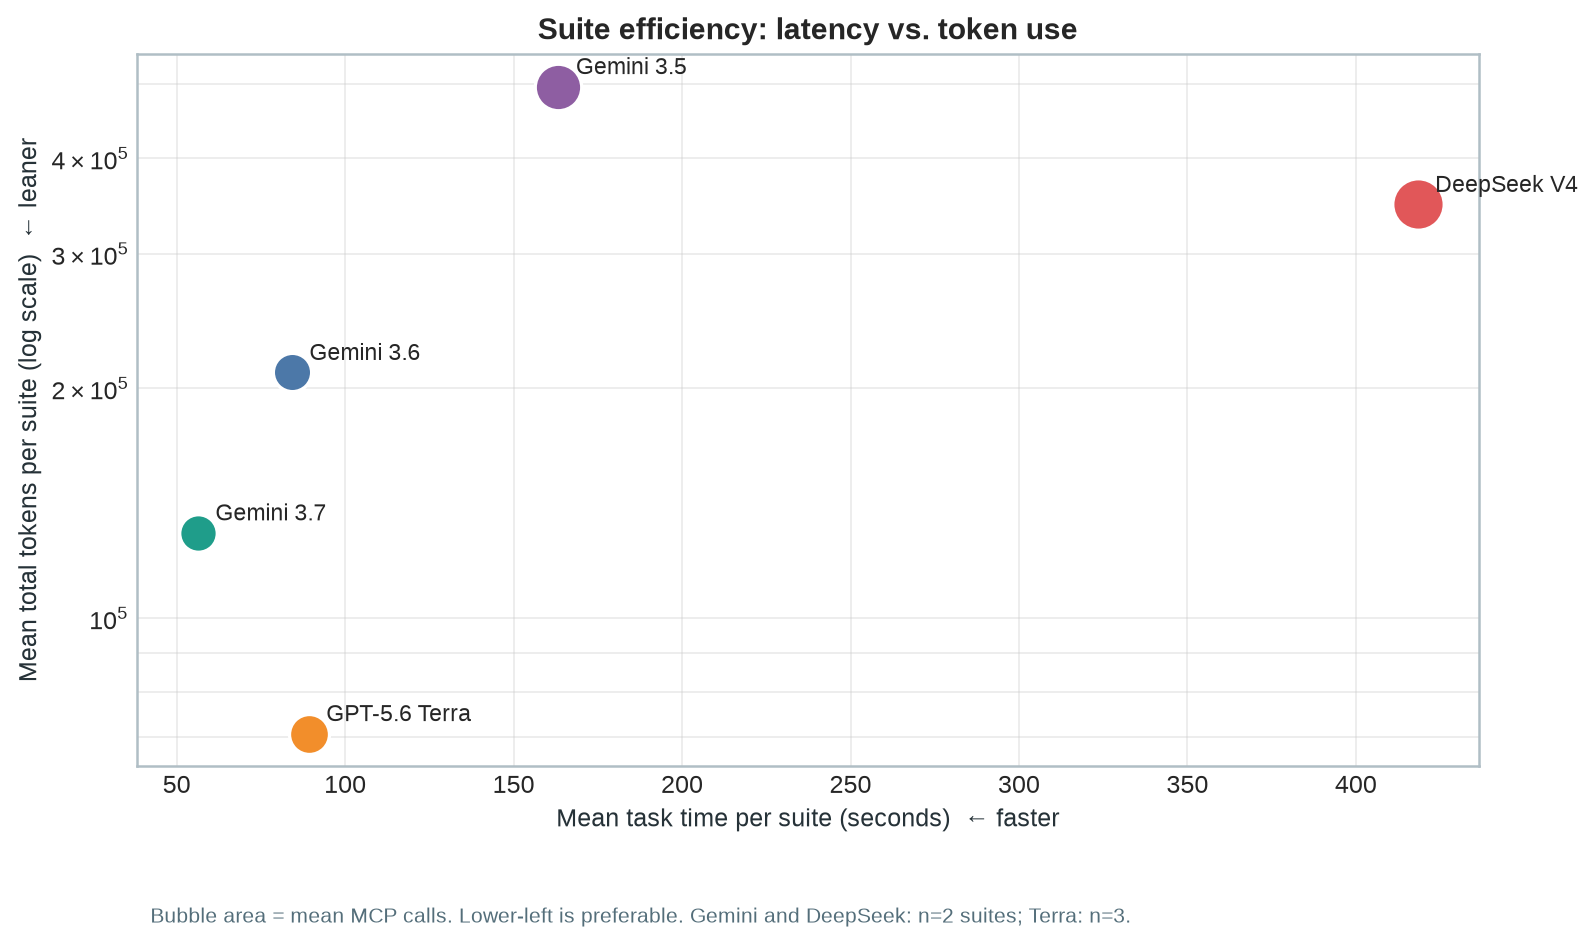
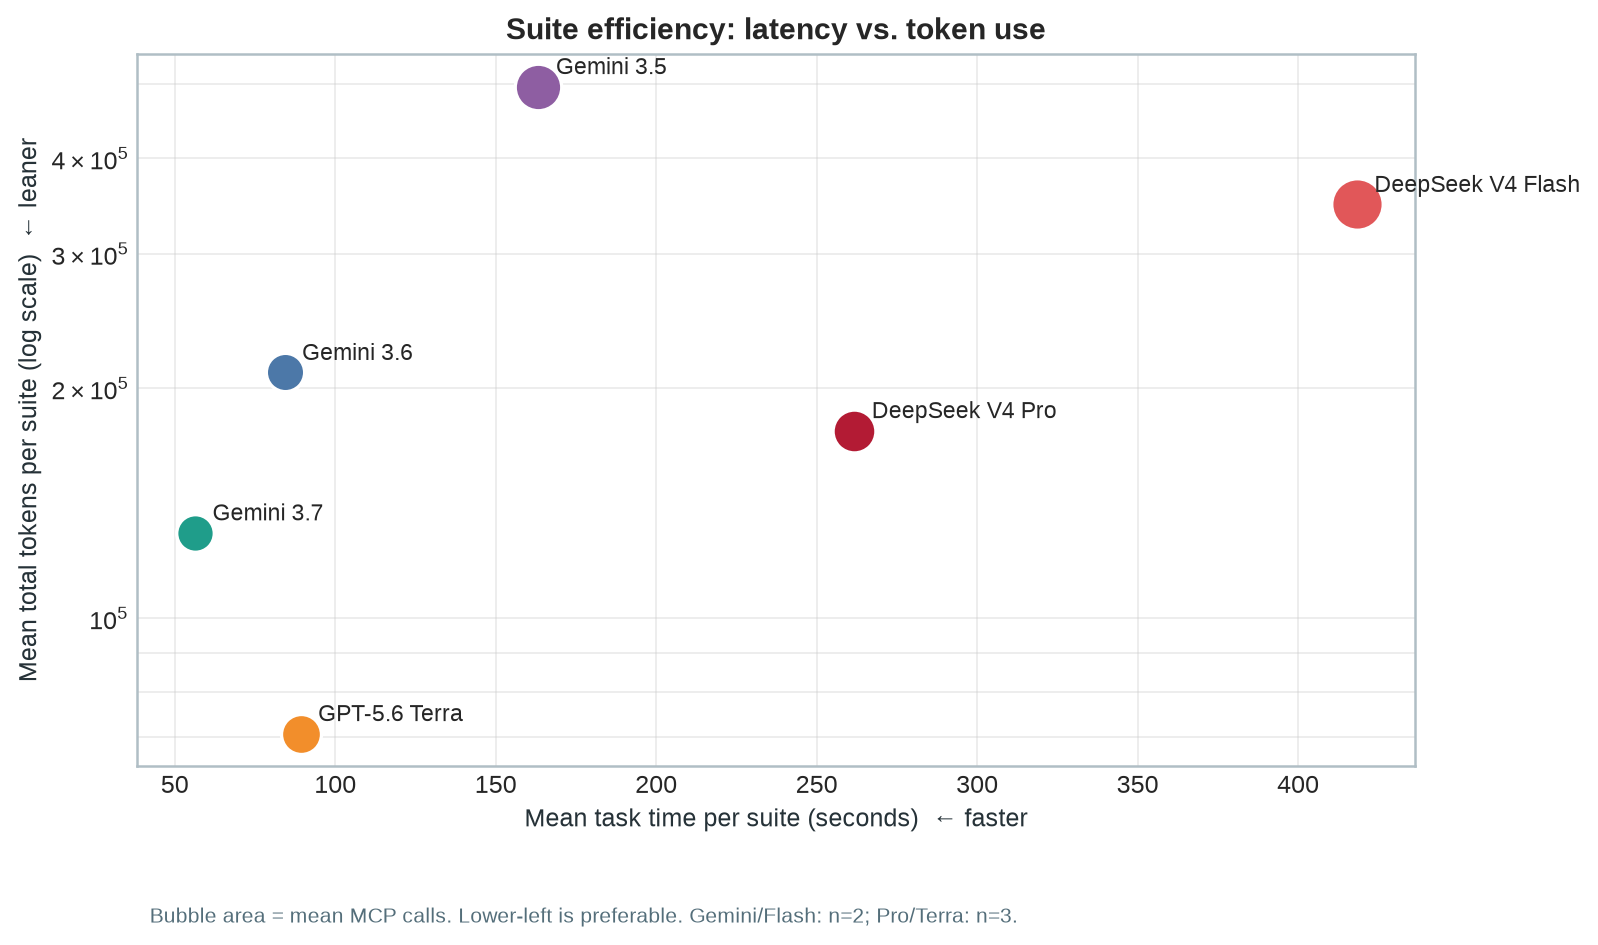
docs(results): update shootout with DeepSeek V4 Pro and reliability analysis

diff --git a/results/generate_gemini_shootout_charts.py b/results/generate_gemini_shootout_charts.py
@@ -1,8 +1,9 @@
 """Generate reproducible charts for gemini-shootout-081426.md.
 
 The values below are the suite and task means recorded in the accompanying
-report from the EU Logfire `mcp-eval` project. Gemini and DeepSeek are based on
-two suites per model; GPT-5.6 Terra is based on three.
+report from the EU Logfire `mcp-eval` project. Gemini and DeepSeek Flash are
+based on two suites per model; DeepSeek Pro and GPT-5.6 Terra are based on
+three.
 """
 
 from pathlib import Path
@@ -21,6 +22,7 @@ MODEL_SUMMARY = pd.DataFrame(
         ("Gemini 3.7 Flash", "Google Gemini", 2, 21.5, 30.0, 129_373, 56.3),
         ("GPT-5.6 Terra", "OpenAI", 3, 15.3, 35.0, 70_638, 89.2),
         ("DeepSeek V4 Flash", "DeepSeek / OpenRouter", 2, 29.5, 63.0, 348_166, 418.3),
+        ("DeepSeek V4 Pro", "DeepSeek / OpenRouter", 3, 20.3, 41.3, 176_077, 261.7),
     ],
     columns=["model", "family", "suites", "turns", "calls", "tokens", "seconds"],
 )
@@ -47,6 +49,10 @@ TASK_METRICS = pd.DataFrame(
         ("Ambiguous classification", "Gemini 3.7 Flash", 23.9, 81_048, 13.0),
         ("Ambiguous classification", "GPT-5.6 Terra", 44.0, 45_312, 19.3),
         ("Ambiguous classification", "DeepSeek V4 Flash", 184.9, 249_912, 33.0),
+        ("Structured discovery", "DeepSeek V4 Pro", 42.6, 16_501, 11.7),
+        ("Single-table query", "DeepSeek V4 Pro", 32.2, 12_875, 2.3),
+        ("Join-heavy workload", "DeepSeek V4 Pro", 39.0, 18_075, 5.0),
+        ("Ambiguous classification", "DeepSeek V4 Pro", 147.9, 128_627, 22.3),
     ],
     columns=["task", "model", "seconds", "tokens", "calls"],
 )
@@ -59,7 +65,31 @@ COLORS = {
     "Gemini 3.7 Flash": "#1f9d8a",
     "GPT-5.6 Terra": "#f28e2b",
     "DeepSeek V4 Flash": "#e15759",
+    "DeepSeek V4 Pro": "#b31b34",
 }
+SCATTER_LABELS = {
+    "Gemini 3.5 Flash": "Gemini 3.5",
+    "Gemini 3.6 Flash": "Gemini 3.6",
+    "Gemini 3.7 Flash": "Gemini 3.7",
+}
+STATUS_CRITICAL = "#d03b3b"  # reserved status color; aborted attempts, never a series
+
+# Process starts per model vs. suites that actually completed, per the
+# independent Logfire review (see "Independent validation" in the report).
+# Only DeepSeek needed restarts: a silent mid-task hang at 22:58:39 UTC and a
+# Logfire-export-retry stall at 23:40:35 UTC, both abandoned with zero
+# completed tasks, before the two counted runs went clean.
+RELIABILITY = pd.DataFrame(
+    [
+        ("Gemini 3.5 Flash", 2, 0),
+        ("Gemini 3.6 Flash", 2, 0),
+        ("Gemini 3.7 Flash", 2, 0),
+        ("GPT-5.6 Terra", 3, 0),
+        ("DeepSeek V4 Flash", 2, 2),
+        ("DeepSeek V4 Pro", 3, 0),
+    ],
+    columns=["model", "completed", "aborted"],
+)
 
 
 def configure_style() -> None:
@@ -95,7 +125,7 @@ def suite_efficiency_chart() -> None:
             zorder=3,
         )
         ax.annotate(
-            row.model.replace(" Flash", ""),
+            SCATTER_LABELS.get(row.model, row.model),
             (row.seconds, row.tokens),
             xytext=(7, 5),
             textcoords="offset points",
@@ -108,7 +138,7 @@ def suite_efficiency_chart() -> None:
     ax.text(
         0.01,
         -0.22,
-        "Bubble area = mean MCP calls. Lower-left is preferable. Gemini and DeepSeek: n=2 suites; Terra: n=3.",
+        "Bubble area = mean MCP calls. Lower-left is preferable. Gemini/Flash: n=2; Pro/Terra: n=3.",
         transform=ax.transAxes,
         fontsize=8.5,
         color="#546e7a",
@@ -128,7 +158,7 @@ def task_metric_chart(metric: str, ylabel: str, title: str, filename: str) -> No
             .loc[TASKS, metric]
         )
         bars = ax.bar(
-            x + (index - 2) * width,
+            x + (index - (len(MODELS) - 1) / 2) * width,
             values,
             width,
             label=model,
@@ -142,6 +172,59 @@ def task_metric_chart(metric: str, ylabel: str, title: str, filename: str) -> No
     ax.legend(ncol=3, loc="upper left", fontsize=8)
     ax.grid(axis="y", alpha=0.35)
     save(fig, filename)
+
+
+def reliability_chart() -> None:
+    fig, ax = plt.subplots(figsize=(8.5, 5))
+    x = np.arange(len(RELIABILITY))
+    width = 0.55
+
+    completed = RELIABILITY["completed"].to_numpy()
+    aborted = RELIABILITY["aborted"].to_numpy()
+    bar_colors = [COLORS[m] for m in RELIABILITY["model"]]
+
+    ax.bar(x, completed, width, color=bar_colors, zorder=3, label="_nolegend_")
+    ax.bar(
+        x,
+        aborted,
+        width,
+        bottom=completed,
+        color=STATUS_CRITICAL,
+        hatch="////",
+        edgecolor="white",
+        linewidth=0.8,
+        zorder=3,
+        label="Aborted attempt (0 tasks completed)",
+    )
+
+    for i, (c, a) in enumerate(zip(completed, aborted)):
+        ax.text(i, c / 2, str(c), ha="center", va="center", fontsize=9, color="white", fontweight="bold")
+        if a:
+            ax.text(i, c + a / 2, str(a), ha="center", va="center", fontsize=9, color="white", fontweight="bold")
+
+    # Proxy handle for the completed segment so the legend names both
+    # segments explicitly rather than leaning on color alone.
+    from matplotlib.patches import Patch
+
+    handles = [
+        Patch(facecolor="#90a4ae", label="Completed suite"),
+        Patch(facecolor=STATUS_CRITICAL, hatch="////", edgecolor="white", label="Aborted attempt (0 tasks completed)"),
+    ]
+    ax.legend(handles=handles, loc="upper left", fontsize=8.5)
+
+    ax.set_xticks(x, [m.replace(" Flash", "") for m in RELIABILITY["model"]])
+    ax.set_ylabel("Process starts")
+    ax.set_title("Run reliability: process starts vs. completed suites")
+    ax.grid(axis="y", alpha=0.35)
+    ax.text(
+        0.01,
+        -0.14,
+        "Aborted = process started, zero tasks completed, silently abandoned before a later restart succeeded.",
+        transform=ax.transAxes,
+        fontsize=8.5,
+        color="#546e7a",
+    )
+    save(fig, "gemini-shootout-reliability.png")
 
 
 def main() -> None:
@@ -159,6 +242,7 @@ def main() -> None:
         "Tool-call discipline by task",
         "gemini-shootout-task-tool-calls.png",
     )
+    reliability_chart()
 
 
 if __name__ == "__main__":

diff --git a/results/gemini-shootout-081426.md b/results/gemini-shootout-081426.md
@@ -1,7 +1,5 @@
 # Gemini Flash MCP Shootout — 2026-08-14
 
-Source: [EU Logfire `mcp-eval` project](https://logfire-eu.pydantic.dev/last-name-franz/mcp-eval/).
-
 ## Scope
 
 This review covers six completed serial benchmark runs of
@@ -10,10 +8,11 @@ This review covers six completed serial benchmark runs of
 traces ran between 23:08 and 23:21 UTC on 2026-08-14. An earlier failed
 attempt using the invalid model ID `gemini-3.6` is excluded.
 
-It also includes two completed OpenRouter/DeepSeek V4 Flash suites and three
-completed OpenAI GPT-5.6 Terra suites, described in the later comparison
-sections. The differing repetition counts are retained rather than normalized:
-Gemini and DeepSeek have two suites each; Terra has three.
+It also includes two completed OpenRouter/DeepSeek V4 Flash suites, three
+completed OpenRouter/DeepSeek V4 Pro suites, and three completed OpenAI
+GPT-5.6 Terra suites, described in the later comparison sections. The
+differing repetition counts are retained rather than normalized: Gemini and
+DeepSeek Flash have two suites each; DeepSeek Pro and Terra have three.
 
 Every task completed in all reviewed suites.
 
@@ -37,10 +36,19 @@ At the family level:
 - **OpenAI GPT-5.6 Terra:** fewest model turns and lowest token use, with
   consistently careful evidence and uncertainty language. Choose it where
   token cost and defensible reporting matter more than absolute latency.
-- **DeepSeek V4 Flash via OpenRouter:** detailed and readable, but a poor fit
-  for a strict tool/table budget. It averaged 63 MCP calls and 418.3 seconds
-  per suite, repeatedly re-querying and broadening the investigation beyond
-  the requested scope.
+- **DeepSeek V4 via OpenRouter:** Pro is a substantial improvement on Flash
+  (176,077 vs. 348,166 mean tokens; 261.7 vs. 418.3 seconds), but both remain
+  poor fits for a strict tool/table budget. Pro averaged 41.3 MCP calls per
+  suite and Flash 63.0; both frequently broadened the investigation beyond
+  the requested scope. Flash also needed two aborted attempts before its two
+  counted suites completed cleanly — see the Independent validation appendix.
+
+An independent re-query of the Logfire traces on 2026-08-14 confirmed every
+token, time, and MCP-call figure in this report to the exact number, and
+confirmed the excluded invalid-model run. It also surfaced one gap this
+report now corrects: DeepSeek's two counted suites followed two earlier
+aborted attempts, not disclosed in the original write-up. Full methodology
+is in the appendix at the end of this report.
 
 ### Visual comparison
 
@@ -50,12 +58,14 @@ At the family level:
 
 ![Mean MCP calls by task and model.](gemini-shootout-task-tool-calls.png)
 
+![Process starts versus completed suites per model; DeepSeek needed two aborted attempts before its two counted suites completed.](gemini-shootout-reliability.png)
+
 | Decision | Recommended model | Why |
 |---|---|---|
 | Fastest bounded investigation | `gemini-3.7-flash` | Lowest suite latency; sound constraint discipline |
 | Lowest token use / cautious reporting | `openai:gpt-5.6-terra` | Lowest tokens and model turns; clear uncertainty handling |
 | More deliberate Gemini alternative | `gemini-3.6-flash` | Controlled middle ground, albeit much more token-heavy than Terra |
-| Avoid for bounded default | `gemini-3.5-flash`, DeepSeek V4 Flash | Frequent over-exploration; DeepSeek also has very high latency |
+| Avoid for bounded default | `gemini-3.5-flash`, DeepSeek V4 Flash/Pro | Frequent over-exploration; DeepSeek also has high latency |
 
 These are execution-quality findings, not a semantic ground-truth score: the
 traces establish completion, latency, token use, tool behavior, and prompt
@@ -271,6 +281,12 @@ Logfire project between 23:41 and 23:57 UTC. All eight tasks completed. This
 section is an additional comparison point; the filename remains unchanged
 because the Gemini results above are the original shootout scope.
 
+Reaching these two clean suites actually took four process starts: two
+earlier DeepSeek attempts stalled with zero completed tasks and were
+silently abandoned before the two counted runs below. This does not change
+any metric in this section — see the Independent validation appendix at the
+end of this report for the full detail.
+
 | Model | Suites | Mean model turns / suite | Mean MCP calls / suite | Mean tokens / suite | Mean task time / suite |
 |---|---:|---:|---:|---:|---:|
 | `deepseek/deepseek-v4-flash` via OpenRouter | 2 | 29.5 | 63.0 | 348,166 | 418.3 s |
@@ -351,6 +367,87 @@ has substantially higher end-to-end latency than the three Gemini models.
 `gemini-3.7-flash` remains the preferred default; 3.6 remains the more
 conservative alternative when somewhat richer investigation is desired.
 
+## OpenRouter DeepSeek V4 Pro comparison
+
+Three serial `openrouter:deepseek/deepseek-v4-pro` suites completed in the EU
+Logfire project between 00:56 and 01:17 UTC on 2026-08-15. All twelve tasks
+completed. Unlike the earlier Flash result, all three requested Pro process
+starts completed cleanly.
+
+| Run | Model turns | MCP calls | Total tokens | Task time |
+|---|---:|---:|---:|---:|
+| 1 | 23 | 51 | 253,523 | 324.7 s |
+| 2 | 22 | 43 | 162,301 | 280.1 s |
+| 3 | 16 | 30 | 112,408 | 180.3 s |
+| **Mean** | **20.3** | **41.3** | **176,077** | **261.7 s** |
+
+| Model | Suites | Mean model turns / suite | Mean MCP calls / suite | Mean tokens / suite | Mean task time / suite |
+|---|---:|---:|---:|---:|---:|
+| `deepseek/deepseek-v4-pro` via OpenRouter | 3 | 20.3 | 41.3 | 176,077 | 261.7 s |
+| `deepseek/deepseek-v4-flash` via OpenRouter | 2 | 29.5 | 63.0 | 348,166 | 418.3 s |
+| `gemini-3.7-flash` | 2 | 21.5 | 30.0 | 129,373 | 56.3 s |
+| `openai:gpt-5.6-terra` | 3 | 15.3 | 35.0 | 70,638 | 89.2 s |
+
+Pro is a clear improvement over DeepSeek Flash: 49% fewer tokens, 34% fewer
+MCP calls, 31% fewer model turns, and 37% lower task time. It is nevertheless
+4.6× slower than Gemini 3.7 and 2.9× slower than Terra. Its mean token use is
+36% above Gemini 3.7 and 2.5× Terra's.
+
+### DeepSeek V4 Pro task-level means
+
+| Task | Mean time | Mean tokens | Mean model turns | Mean MCP calls |
+|---|---:|---:|---:|---:|
+| Structured discovery | 42.6 s | 16,501 | 5.0 | 11.7 |
+| Single-table query | 32.2 s | 12,875 | 3.3 | 2.3 |
+| Join-heavy workload | 39.0 s | 18,075 | 3.3 | 5.0 |
+| Ambiguous classification | 147.9 s | 128,627 | 8.7 | 22.3 |
+
+### Tool behavior
+
+- **Structured discovery:** 14 `search_tables` and 20 `preview_table` calls
+  across the three runs. Pro discovers broadly and previews every candidate;
+  this is more expensive than Terra's 9.3 calls per run but materially more
+  restrained than Flash's 18 calls per run.
+- **Single-table query:** three previews and four `query_table` calls. Two
+  runs used the intended two-call pattern; the first issued an unnecessary
+  unrestricted `on_disk = 1` query before the requested five-row projection.
+- **Join-heavy workload:** three previews and 12 `run_query` calls. The first
+  and third runs made the required joins directly; the second added three
+  previews and extra listener aggregations.
+- **Ambiguous classification:** three `list_tables`, 29 previews, 18
+  structured queries, and 17 SQL queries—67 calls overall. The first run made
+  33 calls, exceeding the prompt's roughly-20-call constraint substantially;
+  the latter two held to 17 calls and eight tables each.
+
+### Qualitative notes and assessment
+
+Pro's reports are detailed, readable, and generally surface the key limitation
+that process eventing is disabled. The third ambiguous answer, for example,
+states:
+
+> “`process_events` returned **zero rows** — osqueryd eventing is **not
+> enabled**.”
+
+It also improves on Flash by making the unresolved listener explicit:
+
+> “**52739** | TCP | **0.0.0.0** | **pid `-1` (unmapped)** | **Unknown — only
+> unresolved outlier**”
+
+However, evidentiary discipline is uneven. The first run concludes that the
+unattributed listener is “**almost certainly** a ChromeOS host service or
+Tailscale component”; the trace establishes neither owner. In the join task,
+the third run calls code-server “exactly one actual network listener” after an
+inner join that necessarily drops the `pid = -1` listeners. The correct claim
+is one *process-attributed* network listener, not one listener overall.
+
+Pro is a meaningful improvement within the DeepSeek family and its final two
+ambiguous runs meet the prompt's scope limits. Still, the first run's 33 calls,
+the high latency, and occasional overconfident attributions make it unsuitable
+as the default bounded-investigation model. It is a stronger DeepSeek option
+than Flash when detailed narrative matters, but Gemini 3.7 remains the speed
+and constraint-discipline default and Terra remains the token-efficient,
+evidence-cautious alternative.
+
 ## OpenAI GPT-5.6 Terra comparison
 
 Three serial `openai:gpt-5.6-terra` suites completed in the EU Logfire project
@@ -427,3 +524,73 @@ assessment and separating observed process/socket relationships from missing
 historical or attribution evidence. The third response did broaden to 20
 calls, but still honored the stated limit; no Terra ambiguous run showed the
 large scope overrun seen with Gemini 3.5 or DeepSeek.
+
+## Appendix: Independent validation (2026-08-14, post-publication)
+
+The figures in this report were re-derived directly from the Logfire
+`mcp-eval` project via `query_run` and cross-checked against the local
+`pydantic_ai_test.log`, independent of the numbers already written into this
+report.
+
+- **Token and time totals match exactly.** Summing the `Task completed`
+  spans' `total_tokens` and `elapsed_ms` for `gemini-3.5-flash` reproduces
+  993,285 tokens / 326.6 s. The same recomputation for `gemini-3.7-flash`'s
+  four task-level means (13.5 s/13,477 tok; 7.9 s/8,791 tok; 11.0 s/26,058
+  tok; 23.9 s/81,048 tok) and for all three `openai:gpt-5.6-terra` runs'
+  `[Overall Token Totals]` lines (72,738 / 55,044 / 84,131 tokens; 92.1 s /
+  82.8 s / 92.5 s) matches this report to the number.
+- **DeepSeek V4 Pro is trace-derived.** The three completed suites sum to
+  253,523 / 162,301 / 112,408 tokens and 324.7 / 280.1 / 180.3 seconds.
+  Their matching `execute_tool` spans give 51 / 43 / 30 MCP calls; the report
+  uses their unweighted three-suite means.
+- **MCP call counts match exactly.** Counting raw `MCP request: tools/call *`
+  spans in the two `gemini-3.7-flash` ambiguous-task windows gives 11 (8
+  `preview_table` + 3 `query_table`) and 15 (8 `preview_table` + 7
+  `query_table`) — identical to the report's claimed counts and its
+  preview/structured-query split.
+- **The excluded invalid-model run is confirmed.** The `google:gemini-3.6`
+  attempt at 23:06:57 UTC failed all four tasks in under a second each with
+  `ModelHTTPError 404` (`models/gemini-3.6 is not found`), matching the
+  report's stated exclusion.
+- **Charts reviewed.** `generate_gemini_shootout_charts.py` hardcodes the
+  same suite/task means published in this report rather than re-querying
+  Logfire, so the original three PNGs inherit the accuracy confirmed above;
+  labels, units, and the "Gemini/Flash: n=2; Pro/Terra: n=3"
+  caption are all correct. A fourth chart, `gemini-shootout-reliability.png`
+  (process starts vs. completed suites per model), was added to visualize
+  the DeepSeek gap below. Regenerating the charts needs `matplotlib`,
+  `pandas`, and `numpy`, which aren't in the project's `pyproject.toml` —
+  run with `uv run --with matplotlib --with pandas --with numpy
+  results/generate_gemini_shootout_charts.py`.
+- **Gap found — DeepSeek attempt count was undercounted.** Getting the two
+  clean DeepSeek suites took four process starts, not two. Logfire and the
+  local log both show two earlier DeepSeek attempts that produced no
+  completed task and were silently abandoned before the two counted runs:
+  - **22:58:39 UTC** — reached four model turns into "Structured discovery"
+    (`search_tables`/`preview_table` calls), sent one further request to
+    OpenRouter at 22:59:18, then produced no response, no error, no
+    exception, and no task-completed/failed event. The next Logfire record
+    is a new process starting 7.5 minutes later, so this attempt was
+    evidently killed mid-request rather than finishing.
+  - **23:40:35 UTC (local log only)** — started, logged
+    `Currently retrying 1 failed export(s)` from the Logfire SDK itself, and
+    was abandoned after roughly 70 seconds with no completed task. This one
+    looks more like a local telemetry-export hiccup than a
+    DeepSeek/OpenRouter fault, but it still consumed an attempt.
+
+  Only after these two aborted starts did the 23:41:45 and 23:49:24 UTC runs
+  complete cleanly. No comparable hidden failures or restarts were found for
+  any Gemini or Terra run in this comparison — each of those completed on
+  its first attempt. This does not change any metric in this report (which
+  are correctly computed from the two completed DeepSeek suites), but it is
+  a relevant, previously undisclosed reliability data point: DeepSeek needed
+  two restarts to produce the two suites analyzed here, versus zero restarts
+  for every other model in this review. See
+  `gemini-shootout-reliability.png` for a visual summary.
+- **pydantic-ai version confirmed uniform.** `pydantic-ai/2.30.0` is the only
+  version string that appears anywhere in `pydantic_ai_test.log` — taken from
+  the `User-Agent` header pydantic-ai's own HTTP client sends on every model
+  request — and that log file spans the full session (18:58–20:16 local /
+  22:58–00:16 UTC on 2026-08-14/15), covering every Gemini, DeepSeek
+  (including the two aborted attempts), and Terra run in this report. There
+  is no version drift across models to account for.
